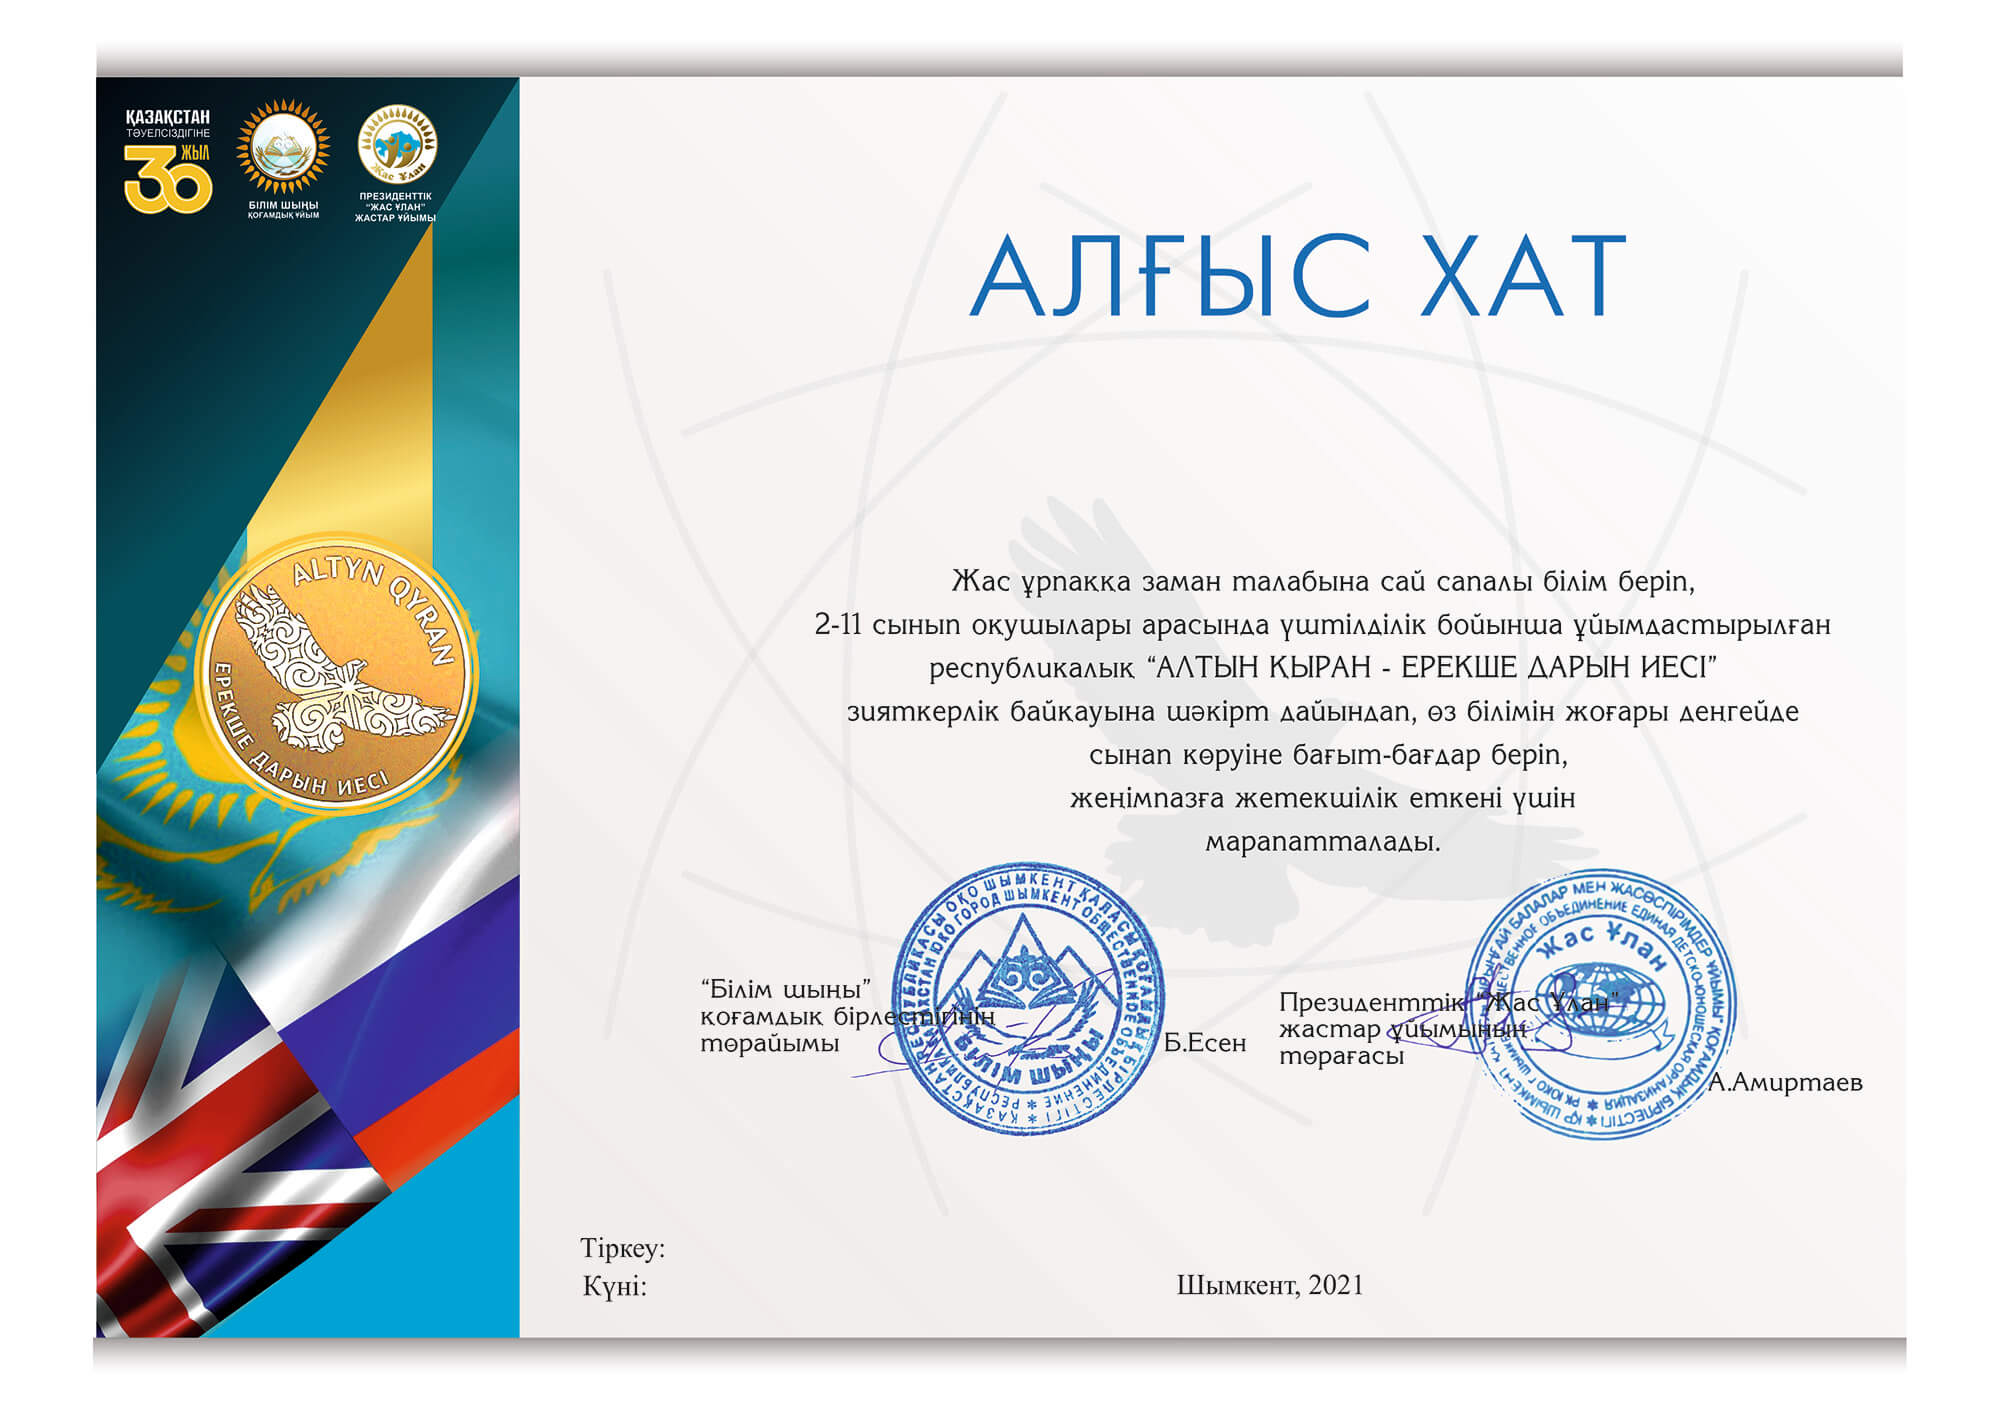
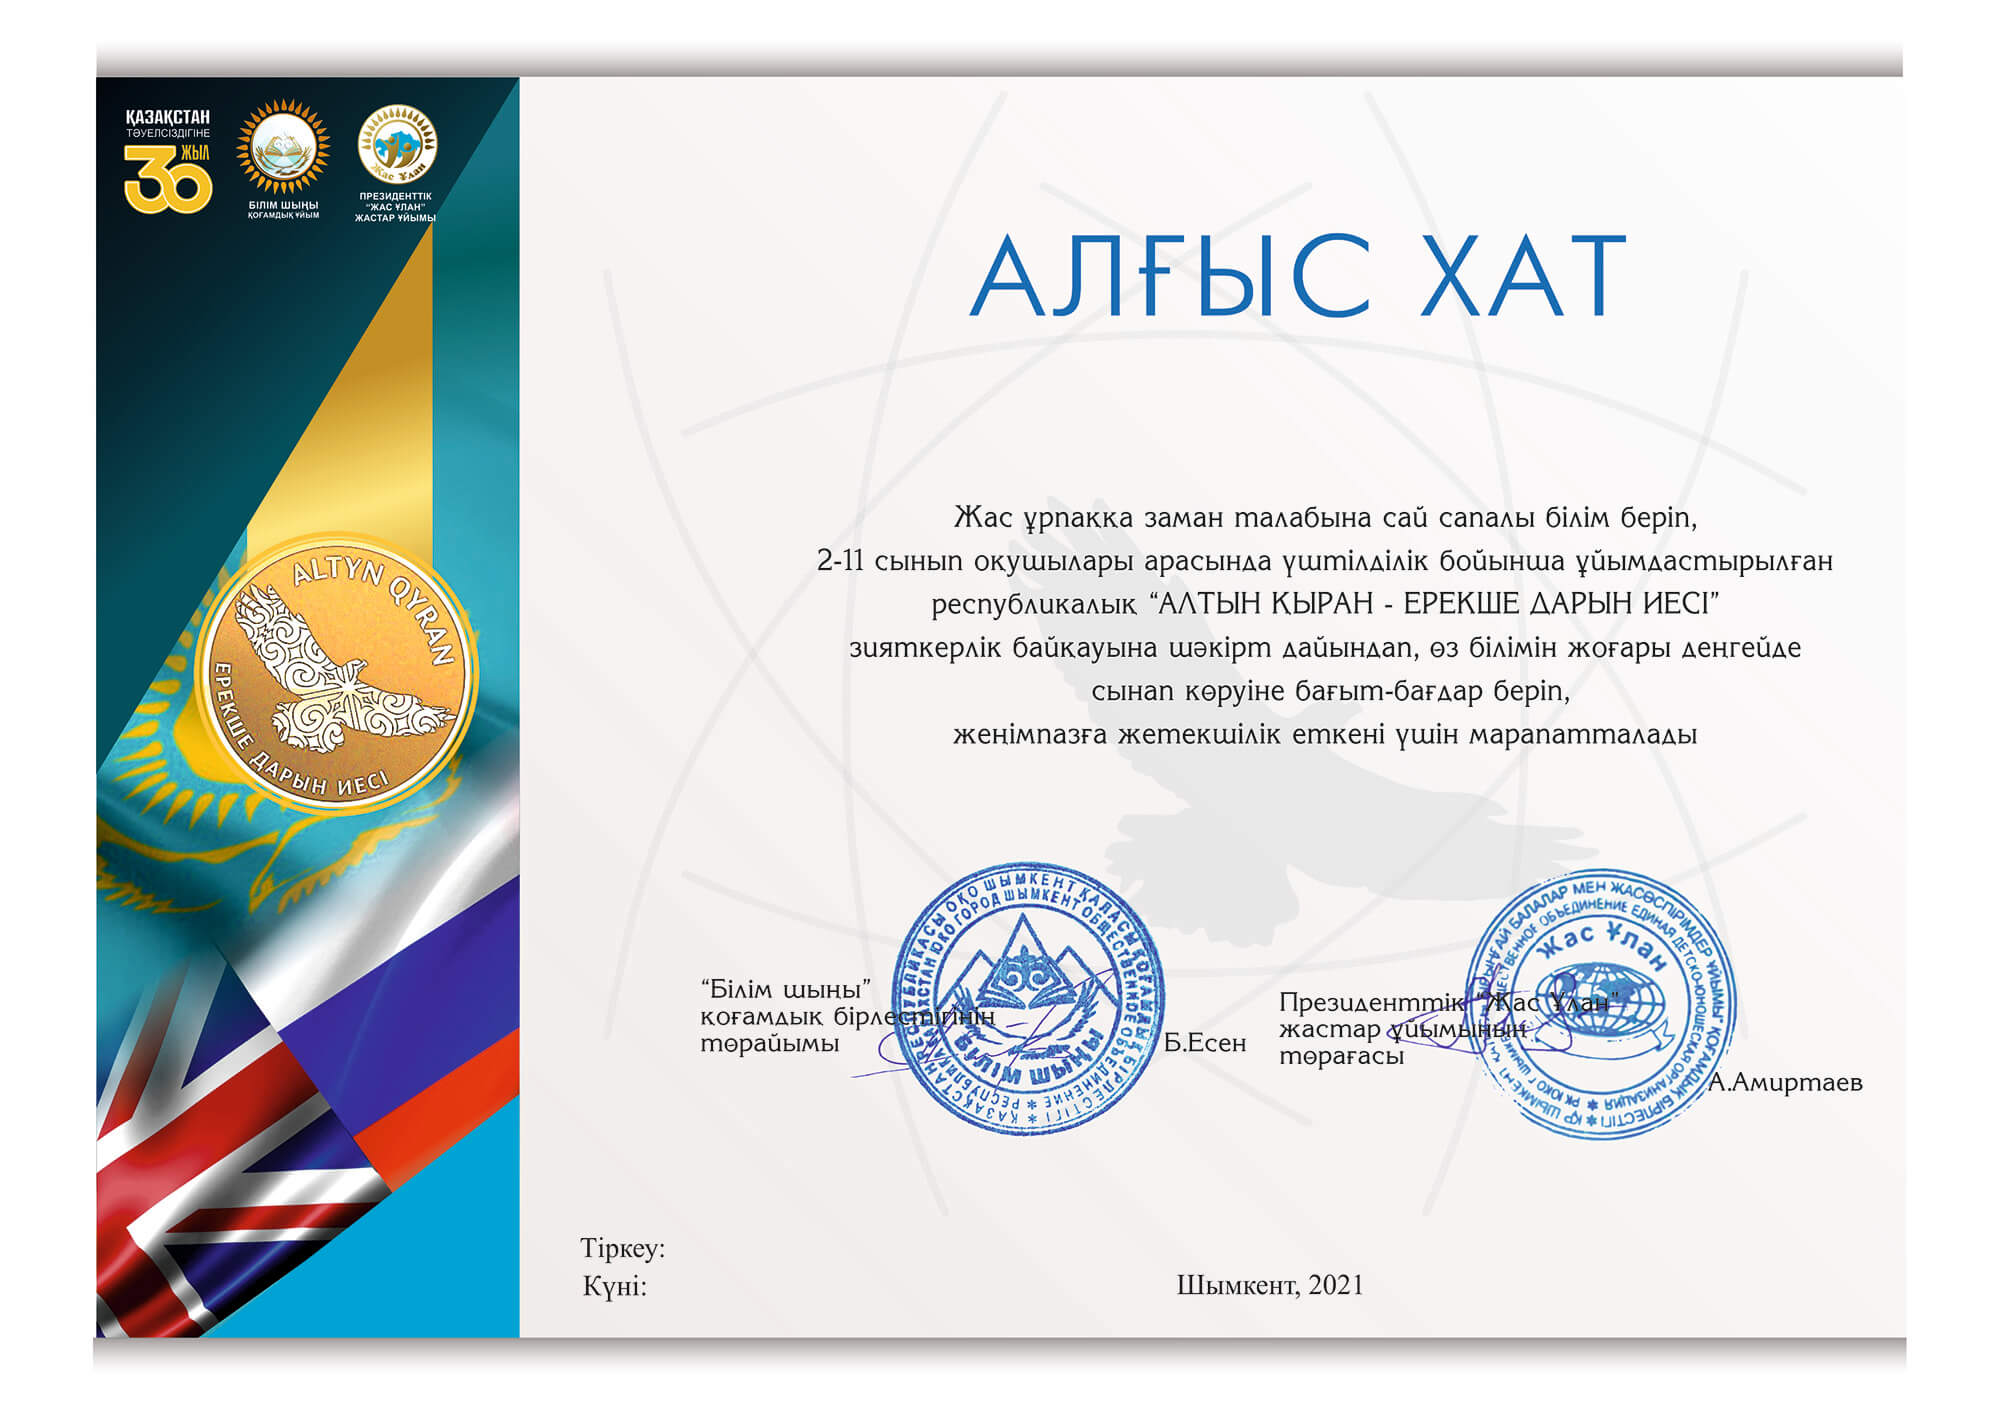
Olympiad fixes

Changed region(s): [[0.403, 0.342, 0.93, 0.6219]]

diff --git a/frontend/views/olympiad/_cert-thank-leader.php b/frontend/views/olympiad/_cert-thank-leader.php
@@ -8,12 +8,16 @@ $qrCode = (new QrCode(\yii\helpers\Url::toRoute(['olympiad/get-cert-thank-leader
     ->setMargin(5);
 ?>
 <div>
-    <div class="cert-page" style="background-image: url('./img/thanks-altyn-qyran-2021.jpg'); text-align: center; background-size: cover; background-repeat: no-repeat; font-family: 'Times New Roman'; height: 800px">
+    <div class="cert-page" style="background-image: url('./img/thank-altyn-qyran-2021.jpg'); text-align: center; background-size: cover; background-repeat: no-repeat; font-family: 'Times New Roman'; height: 800px">
         <div style="padding-left: 360px; padding-top: 200px">
-            <div style="padding-top: 30px;">
-                <div id="cert-name" style="height: 80px; font-size: 22px; font-weight: bold; text-transform: uppercase; color: #000"><span style="padding-left: -5px"><?= $testAssignment->leader_name ?>!</div>
+            <div style="padding-top: 10px;">
+                <div id="cert-name" style="height: 80px; font-size: 22px; text-transform: uppercase; color: #000;">
+                        <?= $testAssignment->leader_name ?>
+                        <br>
+                        <?= $testAssignment->leader_name_second ?>
+                </div>
             </div>
-            <div id="footer" style="text-align: left; padding-left: 20px; padding-top: 300px; width: 160px; font-size: 16px; color: #454545; font-family: 'Times New Roman'">
+            <div id="footer" style="text-align: left; padding-left: 20px; padding-top: 320px; width: 160px; font-size: 16px; color: #454545; font-family: 'Times New Roman'">
                 <div id="cert-qrcode" style="width: 160px; font-size: 22px; padding-left: -52px; font-weight: bold;"><img src="<?= $qrCode->writeDataUri() ?>"></div>
                 <div id="cert-number" style="padding-top: 5px"> №<?= $testAssignment->id ?></div>
                 <div id="cert-date" style="padding-top: 0;"><?= date('d.m.Y') ?> жыл</div>

diff --git a/frontend/views/olympiad/_diploma.php b/frontend/views/olympiad/_diploma.php
@@ -14,7 +14,6 @@ $qrCode = (new QrCode(\yii\helpers\Url::toRoute(['olympiad/get-cert', 'id' => $t
         </div>
         <div style="padding-left: 550px; padding-top: -120px; text-align: center; width: 500px; text-transform: uppercase;">
             <div style="height: 172px">
-                <div style="font-size: 14px;"><?= $testAssignment->school->name ?></div>
                 <div style="font-size: 14px;">
                     <?php
                     if ($testAssignment->school !== null) {
@@ -25,6 +24,7 @@ $qrCode = (new QrCode(\yii\helpers\Url::toRoute(['olympiad/get-cert', 'id' => $t
                         }
                     } ?>
                 </div>
+                <div style="font-size: 14px; width: 440px; padding-left: 35px"><?= $testAssignment->school->name ?></div>
                 <div style="font-size: 14px; font-weight: bold"><?= $testAssignment->grade ?> сынып оқушысы</div>
                 <div style="padding-top: 10px; font-size: 22px;">
                     <b><?= $testAssignment->surname . ' ' . $testAssignment->name . ' ' . $testAssignment->patronymic ?></b>

diff --git a/frontend/views/olympiad/_cert.php b/frontend/views/olympiad/_cert.php
@@ -35,11 +35,13 @@ if ($testAssignment->testOption->test->olympiad_id === 8) {
             <div style="font-size: 18px; padding-top: 3px; color: #000">
                 <b><?= $testAssignment->surname . ' ' . $testAssignment->name . ' ' . $testAssignment->patronymic ?></b>
             </div>
-            <div style="font-size: 18px; color: #000; padding-top: 40px">
+            <div style="font-size: 18px; color: #000; padding-top: 28px">
                 <b><?= $testAssignment->leader_name ?></b>
+                <br>
+                <b><?= $testAssignment->leader_name_second ?></b>
             </div>
         </div>
-        <div style="padding-left: 910px; padding-top: -18px">
+        <div style="padding-left: 910px; padding-top: -32px">
             <div id="cert-number" style="font-size: 14px;">№<?= $testAssignment->id ?></div>
             <div id="cert-date" style="font-size: 14px; padding-top: 3px"><?= date('d.m.Y') ?> жыл</div>
         </div>
